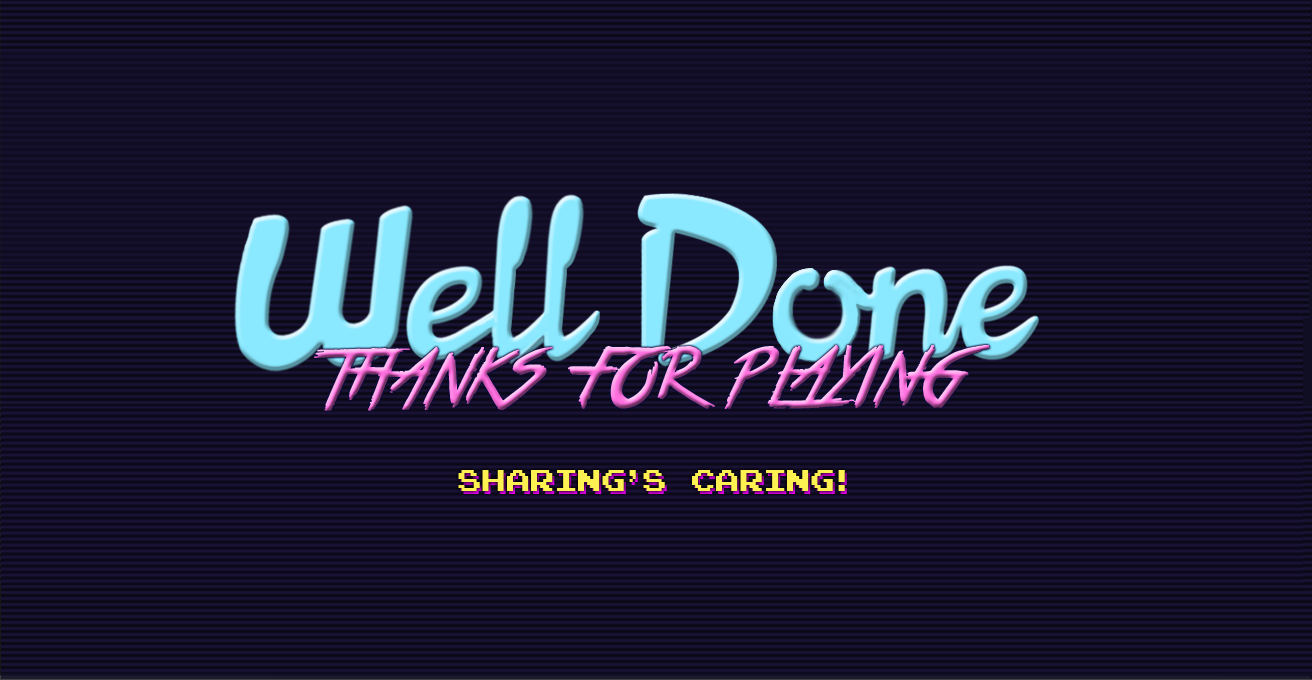
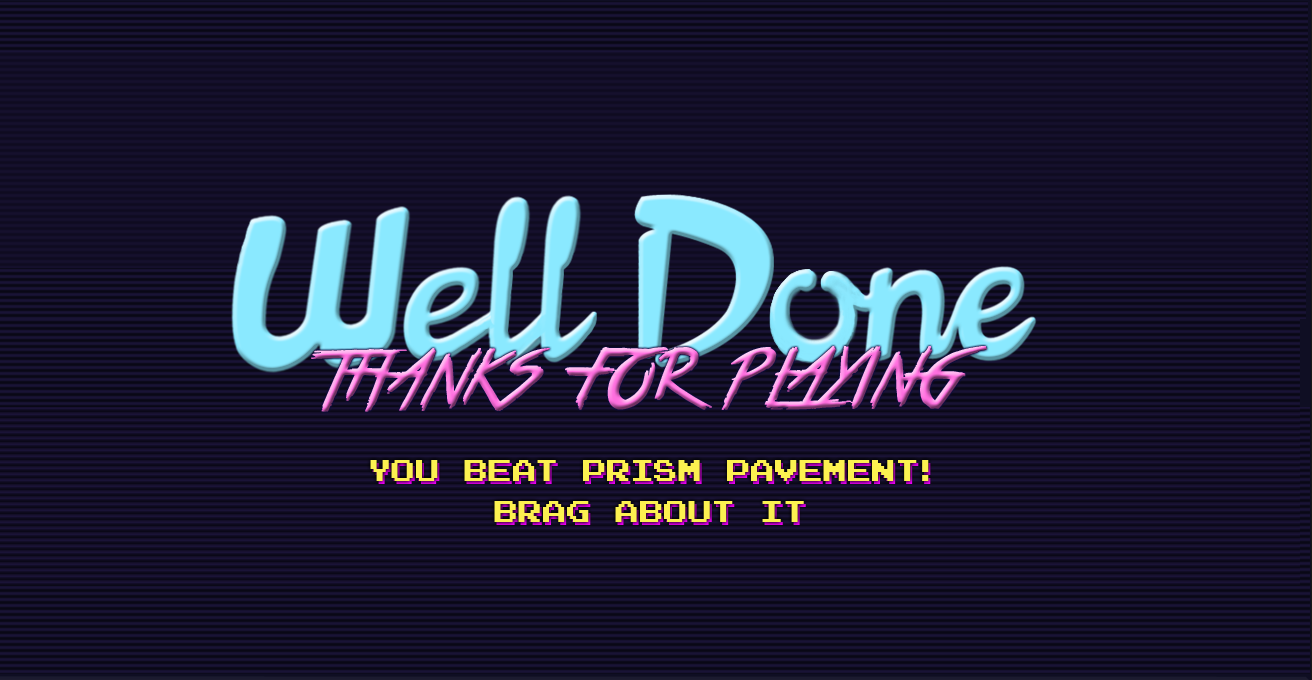
replace assets with updated copy

Changed region(s): [[0.1562, 0.2779, 0.8125, 0.6176], [0.2812, 0.6485, 0.7188, 0.7721], [0.0, 0.9882, 1.0, 1.0]]

diff --git a/js/screens/end.js b/js/screens/end.js
@@ -40,6 +40,8 @@ game.EndScreen = me.ScreenObject.extend({
 		this.enterMessage = null;
 
 		enterPos = {};
+
+		this.share = null;
 	
 	},
 	//reset function
@@ -207,6 +209,8 @@ game.EndScreen = me.ScreenObject.extend({
 			{
 				this.orb13 = me.loader.getImage("orb_grey");
 			}
+
+			this.share = me.loader.getImage("share_score");
 			//window.bonusUnlocked = true;
 			if (window.bonusUnlocked)
 			{
@@ -214,7 +218,7 @@ game.EndScreen = me.ScreenObject.extend({
 				this.bonusMessage = me.loader.getImage("bonus_unlocked");
 				bonusPos = {x:240, y:65};
 				this.enterMessage = me.loader.getImage("enter_bonus");
-				enterPos = {x:319, y:526};
+				enterPos = {x:319, y:610};
 			}
 			else
 			{
@@ -222,13 +226,14 @@ game.EndScreen = me.ScreenObject.extend({
 				this.bonusMessage = me.loader.getImage("bonus_collect");
 				bonusPos = {x:190, y:65};
 				this.enterMessage = me.loader.getImage("enter_retry");
-				enterPos = {x:415, y:526};
+				enterPos = {x:415, y:610};
 			}
 		}
 		winHeight = $(window).height();
 		document.getElementById("popupContainer").style.top = '-1000px';
 		document.getElementById("econt").style.top = 0 + 'px';
 		me.input.bindKey(me.input.KEY.ENTER, "enter", true);
+		document.getElementById("scont").style.top = '526px';
     },
     moveLicense: function(id)
     {
@@ -399,6 +404,8 @@ game.EndScreen = me.ScreenObject.extend({
 
 		context.drawImage(this.clickMessage, 352, 233);
 		context.drawImage(this.enterMessage, enterPos.x, enterPos.y);
+
+		context.drawImage(this.share, 455, 499);
 	},
 	/**	
 	 *  action to perform when leaving this screen (state change)

diff --git a/index.html b/index.html
@@ -74,7 +74,7 @@
 						<p>1974</p>
 						<h3>INTERESTING FACT</h3>
 						<p>Developer Tomohiro Nishikado's top-down racing game pre-dated his meteoric rise to fame for developing Space Invaders.</p>
-						<a href="https://twitter.com/intent/tweet?text=Developer+Tomohiro+Nishikado's+top-down+racing+game+pre-dated+his+meteoric+rise+to+fame+for+developing+Space+Invaders.&url=http%3A%2F%2Fwww.adrivethroughtime.com"></a>
+						<a href="https://twitter.com/intent/tweet?text=Developer+Tomohiro+Nishikado's+top-down+racing+game+pre-dated+his+meteoric+rise+to+fame+for+developing+Space+Invaders&url=http%3A%2F%2Fwww.adrivethroughtime.com"></a>
 					</div>
 				</div>
 			</div>
@@ -567,11 +567,6 @@
 		        var pLeft = position.left;
 		        var cWidth = $('#screen').children().width();
 		        var cHeight = $('#screen').children().height();
-
-		        $('.share-container').css({
-		        	position: "absolute",
-		        	height: Math.round( (viewportWidth * scaleFactor) / 1.93) + "px"
-		        }).show();
 		        $('.share-inner').css({
 		        	left: Math.round( (viewportWidth/2) - 89.5) + "px",
 		        })

diff --git a/js/resources.js b/js/resources.js
@@ -55,6 +55,7 @@ game.resources = [
 	{name: "32x32_font", type:"image", src: "data/img/font/32x32_font.png"},
 	//instructions image
 	{name: "instructions", type:"image", src: "data/img/instructions.png"},
+	{name: "instructions_bonus", type:"image", src: "data/img/instructions_bonus.png"},
 	//title screen image
 	{name: "title_screen", type: "image", src: "data/img/title_screen.jpg"},
 	{name: "press_enter", type: "image", src: "data/img/press_enter.gif"},
@@ -71,6 +72,7 @@ game.resources = [
 	{name: "click_to_view", type: "image", src: "data/img/click_to_view.png"},
 	{name: "enter_bonus", type: "image", src: "data/img/enter_bonus.gif"},
 	{name: "enter_retry", type: "image", src: "data/img/enter_retry.gif"},
+	{name: "share_score", type: "image", src: "data/img/share_score.png"},
 	//credits screen image
 	{name: "credits", type: "image", src: "data/img/credits.png"},
 	//well done screen image

diff --git a/js/screens/well-done.js b/js/screens/well-done.js
@@ -9,12 +9,16 @@ game.WellDoneScreen = me.ScreenObject.extend({
 
 	onResetEvent: function()
 	{
+		window.bonusUnlocked = false;
 		if (this.bg == null)
 		{
 			this.bg = me.loader.getImage("well_done");
-			setTimeout(function() { me.state.change(me.state.MENU); }, 3000);
+			setTimeout(function()
+				{
+					me.state.change(me.state.MENU);
+				}, 3000);
 		}
-		document.getElementById("scont").style.top = '0px';
+		document.getElementById("scont").style.top = '550px';
 	},
 
 	update: function()

diff --git a/CSS/mainstyles.css b/CSS/mainstyles.css
@@ -31,14 +31,15 @@ canvas
 
 .share-container
 {
-	position: relative;
-	display: none;
+	position: absolute;
+	display: block;
 	z-index: 3;
 	top: -1000px;
 	width: 100%;
-	height: 100%;
+	height: 42px;
 	vertical-align: bottom;
 	margin: auto;
+	margin-top: 95px;
 }
 
 .share-inner
@@ -451,7 +452,7 @@ canvas
 	.share-container
 	{
 		margin: auto;
-		margin-top: 106px;
+		margin-top: -12px;
 	}
 	#screen
 	{

diff --git a/js/screens/title.js b/js/screens/title.js
@@ -36,7 +36,7 @@ game.TitleScreen = me.ScreenObject.extend({
         me.input.bindKey(me.input.KEY.DOWN, "down", true);
         me.input.bindKey(me.input.KEY.B, "b", true);
         me.input.bindKey(me.input.KEY.A, "a", true);
-	    document.getElementById("scont").style.top = '0px';
+	    document.getElementById("scont").style.top = '550px';
     },
 	
 	//update function

diff --git a/js/screens/bonus.js b/js/screens/bonus.js
@@ -10,6 +10,7 @@ game.BonusScreen = me.ScreenObject.extend({
 		//me.game.onLevelLoaded = this.loadFinished.bind(this);
 	    me.levelDirector.loadLevel("bonus_level");
 	    //me.levelDirector.loadLevel("area01");
+	    document.getElementById("scont").style.top = '-1000px';
 	},
 
 	onDestroyEvent: function() {
